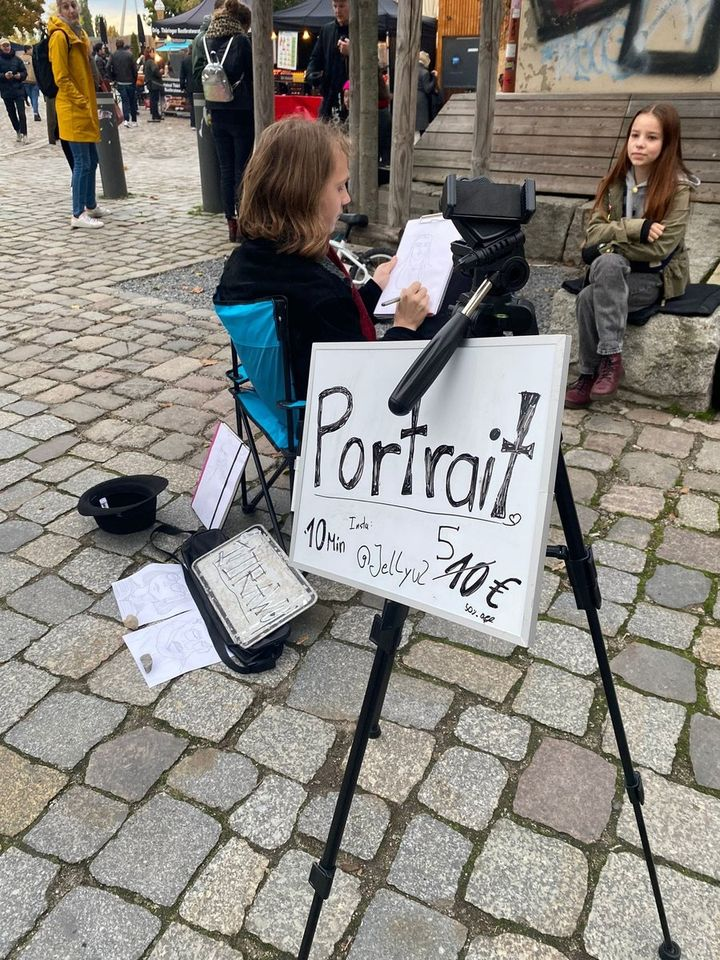
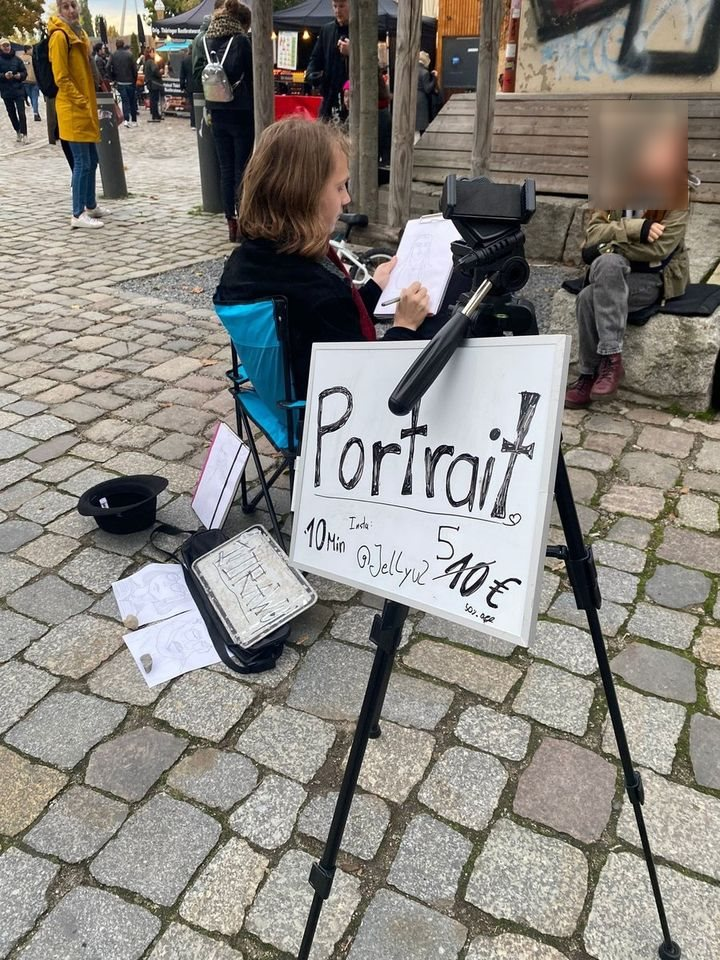
Portfolio + Projekte: girl's face blurred in the Mauerpark easel photo (zeichnen-2024-4.jpg, ?v=2 to refresh caches)

Changed region(s): [[0.7944, 0.0938, 0.9778, 0.2188]]

diff --git a/portfolio.html b/portfolio.html
@@ -379,7 +379,7 @@
 					<div class="pf-wall pf-wall--two" data-lightbox>
 					<a href="/img/fotos/stand-saunasplash-nacht-4x5.jpg"><img src="/img/portfolio/stand-saunasplash-nacht-4x5.jpg" alt="Der beleuchtete Porträt-Stand bei Nacht auf dem Saunasplash" width="720" height="900" loading="lazy" decoding="async"><span>Saunasplash, nachts</span></a>
 					<a href="/img/fotos/stand-zelt-3x2.jpg"><img src="/img/portfolio/stand-zelt-3x2.jpg" alt="Aydans Porträt-Stand von vorne" width="720" height="480" loading="lazy" decoding="async"><span>Der Stand</span></a>
-					<a href="/img/fotos/zeichnen-2024-4.jpg"><img src="/img/portfolio/zeichnen-2024-4.jpg" alt="Aydan zeichnet mit Staffelei im Mauerpark" width="720" height="960" loading="lazy" decoding="async"><span>Mauerpark</span></a>
+					<a href="/img/fotos/zeichnen-2024-4.jpg?v=2"><img src="/img/portfolio/zeichnen-2024-4.jpg?v=2" alt="Aydan zeichnet mit Staffelei im Mauerpark" width="720" height="960" loading="lazy" decoding="async"><span>Mauerpark</span></a>
 					<a href="/img/fotos/stand-tisch-3x2.jpg"><img src="/img/portfolio/stand-tisch-3x2.jpg" alt="Preisschild und Beispielporträts auf dem Zeichentisch" width="720" height="480" loading="lazy" decoding="async"><span>Preise &amp; Beispiele</span></a>
 					</div>
 				</div>

diff --git a/projects/index.html b/projects/index.html
@@ -133,7 +133,7 @@
 							<a href="/img/fotos/zeichnen-2024-1.jpg"><img loading="lazy" decoding="async" src="/img/fotos/zeichnen-2024-1.jpg" alt="Aydan neben dem Portrait-Schild und dem Klappstuhl auf einem Platz in Berlin, 2024"></a>
 							<a href="/img/fotos/zeichnen-2024-2.jpg"><img loading="lazy" decoding="async" src="/img/fotos/zeichnen-2024-2.jpg" alt="Aydan zeichnet einen Jungen, der auf einer Steinbank sitzt, 2024"></a>
 							<a href="/img/fotos/zeichnen-2024-3.jpg"><img loading="lazy" decoding="async" src="/img/fotos/zeichnen-2024-3.jpg" alt="Aydan lacht neben der Staffelei mit dem Portrait-Schild, 2024"></a>
-							<a href="/img/fotos/zeichnen-2024-4.jpg"><img loading="lazy" decoding="async" src="/img/fotos/zeichnen-2024-4.jpg" alt="Aydan zeichnet auf dem Klappstuhl, davor das Schild „Portrait 5 € / 10 €“, 2024"></a>
+							<a href="/img/fotos/zeichnen-2024-4.jpg?v=2"><img loading="lazy" decoding="async" src="/img/fotos/zeichnen-2024-4.jpg?v=2" alt="Aydan zeichnet auf dem Klappstuhl, davor das Schild „Portrait 5 € / 10 €“, 2024"></a>
 						</span></li>
 					<li>🚧 Arbeit an einer Storytime-Animation 🚧
 						(<a href="https://www.instagram.com/p/C-9_mwJiuKx/">Character Turnaround</a>).
